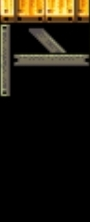
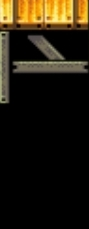
Arreglé las colisiones del personaje con el piso

Changed region(s): [[0.0, 0.0, 1.0, 0.4595]]

diff --git a/niveles/alvidalevel.py b/niveles/alvidalevel.py
@@ -27,97 +27,80 @@ background_x = 0
 class Alvidalevel(pygame.sprite.Sprite):
     def __init__(self):
         super().__init__()
-    # self.pantalla1 = pygame.display.set_mode((ANCHO, ALTO))
-    # pygame.display.set_caption('Level: 01')
-        self.en_movimiento_derecha = False
-        self.en_movimiento_izquierda = False 
+        self.GRAVEDAD = 9.8
+        self.velocidad_caida = 0
 
     def update(self):
-        # self.movimimiento_piso = Piso.piso()
-        self.en_movimiento = False
+        self.en_movimiento_derecha = False
         self.en_movimiento_izquierda = False
+        self.enElSuelo = False
+        self.colision_lateral_x_positiva = False
+        self.colision_lateral_x_negativa = False
+
         global background_x
         global jugador
-        # jugador.rect.x += 10
+
+        variable_aumentadora_sprite = 0
+        for sprite in grupos_sprite_piso:
+            if jugador.rect.colliderect(sprite.rect):
+                self.GRAVEDAD = 0
+                self.enElSuelo = True
+
+
+            if variable_aumentadora_sprite > 6:
+                variable_aumentadora_sprite = 0
+            #
+            if jugador.rect.colliderect(grupos_sprite_piso[0 + variable_aumentadora_sprite]) and jugador.rect.colliderect(grupos_sprite_piso[variable_aumentadora_sprite + 1]):
+                self.colision_lateral_x_positiva = True
+            variable_aumentadora_sprite += 1
+            #
         key = pygame.key.get_pressed()
-        if key[pygame.K_d]:
+        if key[pygame.K_d] and not self.colision_lateral_x_positiva:
             background_x -= 10
             jugador.correr_derecha()
-            # if izquierda.left < 0:
             if derecha.right > ANCHO + 5:
-                for sprite in prueba:
+                for sprite in sprites_piso:
                     sprite.rect.x -= 10
-            # elif derecha.
-            # elif  
+            self.en_movimiento_derecha = True
 
-            # elif izquierda.left < 0 and derecha.right < FONDO_ANCHO:
-            #     for sprite in prueba:
-            #         sprite.rect.x += 10
-
-            # for sprite in prueba:
-            #    sprite.rect.x -= 10
-            self.en_movimiento = True
-            # self.movimimiento_piso.rect.x -= 10
-            print("$$$".center(50, "_"))
-            print(background_x)
-            print(f"derecha: {derecha.right}")
-            print(f"izquierda: {izquierda.left}")
-            
-
-            # jugador.rect.x += 10
             
             
 
-        if key[pygame.K_a]:
+        if key[pygame.K_a] and not self.colision_lateral_x_negativa:
             background_x += 10
             jugador.correr_izquierda()
             self.en_movimiento_izquierda = True
             if izquierda.left > 0:
-                for sprite in prueba:
+                for sprite in sprites_piso:
                     sprite.rect.x += 10
             elif izquierda.left < 0 and derecha.right < FONDO_ANCHO:
-                for sprite in prueba:
+                for sprite in sprites_piso:
                     sprite.rect.x += 10
-            #
-            # if derecha.right > FONDO_ALTO:
-            #             # sprite.rect.x -=10
-            #     for sprite in prueba:
-            #         sprite.rect.x -= 10
-            # elif derecha.right < FONDO_ALTO:
-            #     for sprite in prueba:
-            #         sprite.rect.x -= 0
 
+        if key[pygame.K_w] and self.enElSuelo:
+            print("hola mundo")
+            for _ in range(10):
+                self.GRAVEDAD -= 9.8
 
-            print("#".center(50, '-'))
-            print(f"derecha: {derecha.left}")
-            print(f"izquierda: {izquierda.left}")
             
 
-        if not self.en_movimiento and not self.en_movimiento_izquierda:
+        if not self.en_movimiento_derecha and not self.en_movimiento_izquierda and self.enElSuelo:
             jugador.quieto()
+
+
+
+        jugador.rect.y += self.GRAVEDAD
+
+            
 
         
         if background_x > 0:
             background_x = 0
 
-        # Limite derecho del fondo (no se desplaza más allá del borde derecho de la imagen de fondo)
         limite_derecho = FONDO_ANCHO - ANCHO
         if background_x < -limite_derecho:
             background_x = -limite_derecho
 
-# class Pisos_sprite(pygame.sprite.Sprite):
-#
-#     def __init__(self):
-#         super().__init__()
-#
-#     def update(self):
-#         pass
-#     
-#     def piso(self, x, y, ruta_sprite):
-#         self.image = pygame.image.load(ruta_sprite).convert()
-#         self.rect = self.image.get_rect()
-#         self.rect.left = x
-#         self.rect.bottom = y
 
 def pisos():
         imagen_piso1 = '../recursos/imagenes/Alvidapiso1.jpg'
@@ -174,6 +157,9 @@ def pisos():
 
         return sprites_piso, piso_1.rect, piso_8.rect
 
+    # def colisiones_y(self):
+
+
 
 if __name__ == "__main__":
 
@@ -182,9 +168,11 @@ if __name__ == "__main__":
     pantalla1 = pygame.display.set_mode((ANCHO, ALTO))
     pygame.display.set_caption('Level: 01')
     imagen_fondo = pygame.image.load('../recursos/imagenes/alvidabarcodentro.jpg')
-    prueba, izquierda, derecha = pisos()
+    sprites_piso, izquierda, derecha = pisos()
+    grupos_sprite_piso = sprites_piso.sprites()
     nivel1 = Alvidalevel()
     jugador = Jugador()
+    # jugador_imagen = jugador.imagen_rect()
     luffy = pygame.sprite.Group()
     luffy.add(jugador)
     while nivel1:
@@ -196,14 +184,9 @@ if __name__ == "__main__":
         pantalla1.blit(imagen_fondo, (background_x, 0))
         # pantalla1.fill(NEGRO)
         alvida = Alvidalevel()
-        # piso = pisos()
-        # piso.update()
-        # piso.draw(pantalla1)
-        # pruena = pisos()
-        prueba.update()
-        prueba.draw(pantalla1)
+        sprites_piso.update()
+        sprites_piso.draw(pantalla1)
         alvida.update()
-        # alvida.pisos()
         luffy.draw(pantalla1)
         luffy.update()
         pygame.display.flip()

diff --git a/personajes/luffy.py b/personajes/luffy.py
@@ -17,7 +17,7 @@ VERDE = (0, 255, 0)
 AZUL = (0,0, 255)
 AZUL2 = (64, 64, 255)
 H_50D2FE = (94, 210, 254)
-
+# GRAVEDAD = 1
 # BACKGROUND_X = 0
 
 class Jugador(pygame.sprite.Sprite):
@@ -27,8 +27,11 @@ class Jugador(pygame.sprite.Sprite):
         self.image = pygame.transform.scale(pygame.image.load('../recursos/imagenes/quieto.png').convert(), (90, 110))
         self.image.set_colorkey(NEGRO)
         self.rect = self.image.get_rect()
-        self.rect.center = (200, 500)
+        # self.rect.center = (0, 500)
+        self.rect.x = 0
         self.posicion_x = 0
+        self.salto_altura = 0
+        self.gravedad = 1
 
         self.correr_lista = [pygame.image.load("../recursos/imagenes/Run1.png"),
                              pygame.image.load("../recursos/imagenes/Run2.png"),
@@ -49,13 +52,13 @@ class Jugador(pygame.sprite.Sprite):
         self.indice_correr = 0
         self.indice_demasiado_quieto = 0
         self.velocidad_secuencia_demasiado_quieto = 5
-        self.velocidad_correr = 4
+        self.velocidad_correr = 3
         self.movimiento_derecha = False
         self.movimiento_izquierda = False
         self.tiempo_inicial = time.time()
 
     def update(self):
-        pass
+        pass 
 
         # self.posicion_x = 0
 
@@ -128,6 +131,26 @@ class Jugador(pygame.sprite.Sprite):
     #         self.image.set_colorkey(NEGRO)
     #         self.indice_demasiado_quieto += 1
     #         tiempo_transcurrido = 0
+
+    def quieto_volteado(self):
+            quieto_img = pygame.transform.scale(pygame.image.load('../recursos/imagenes/quieto.png').convert(), (90, 130))
+            quieto_img_volteado = pygame.transform.flip(quieto_img, True, False)
+            quieto_img_volteado.set_colorkey(NEGRO)
+            self.image = quieto_img_volteado
+
+
+    # def imagen_rect(self):
+    #     return self.rect
+
+    def saltar(self):
+        # self.velocidad = velocidad
+        # self.altura = altura
+        # self.altura += velocidad
+        # self.rect.y -= self.altura
+        self.rect.y -= 100
+
+
+
 
 
 
